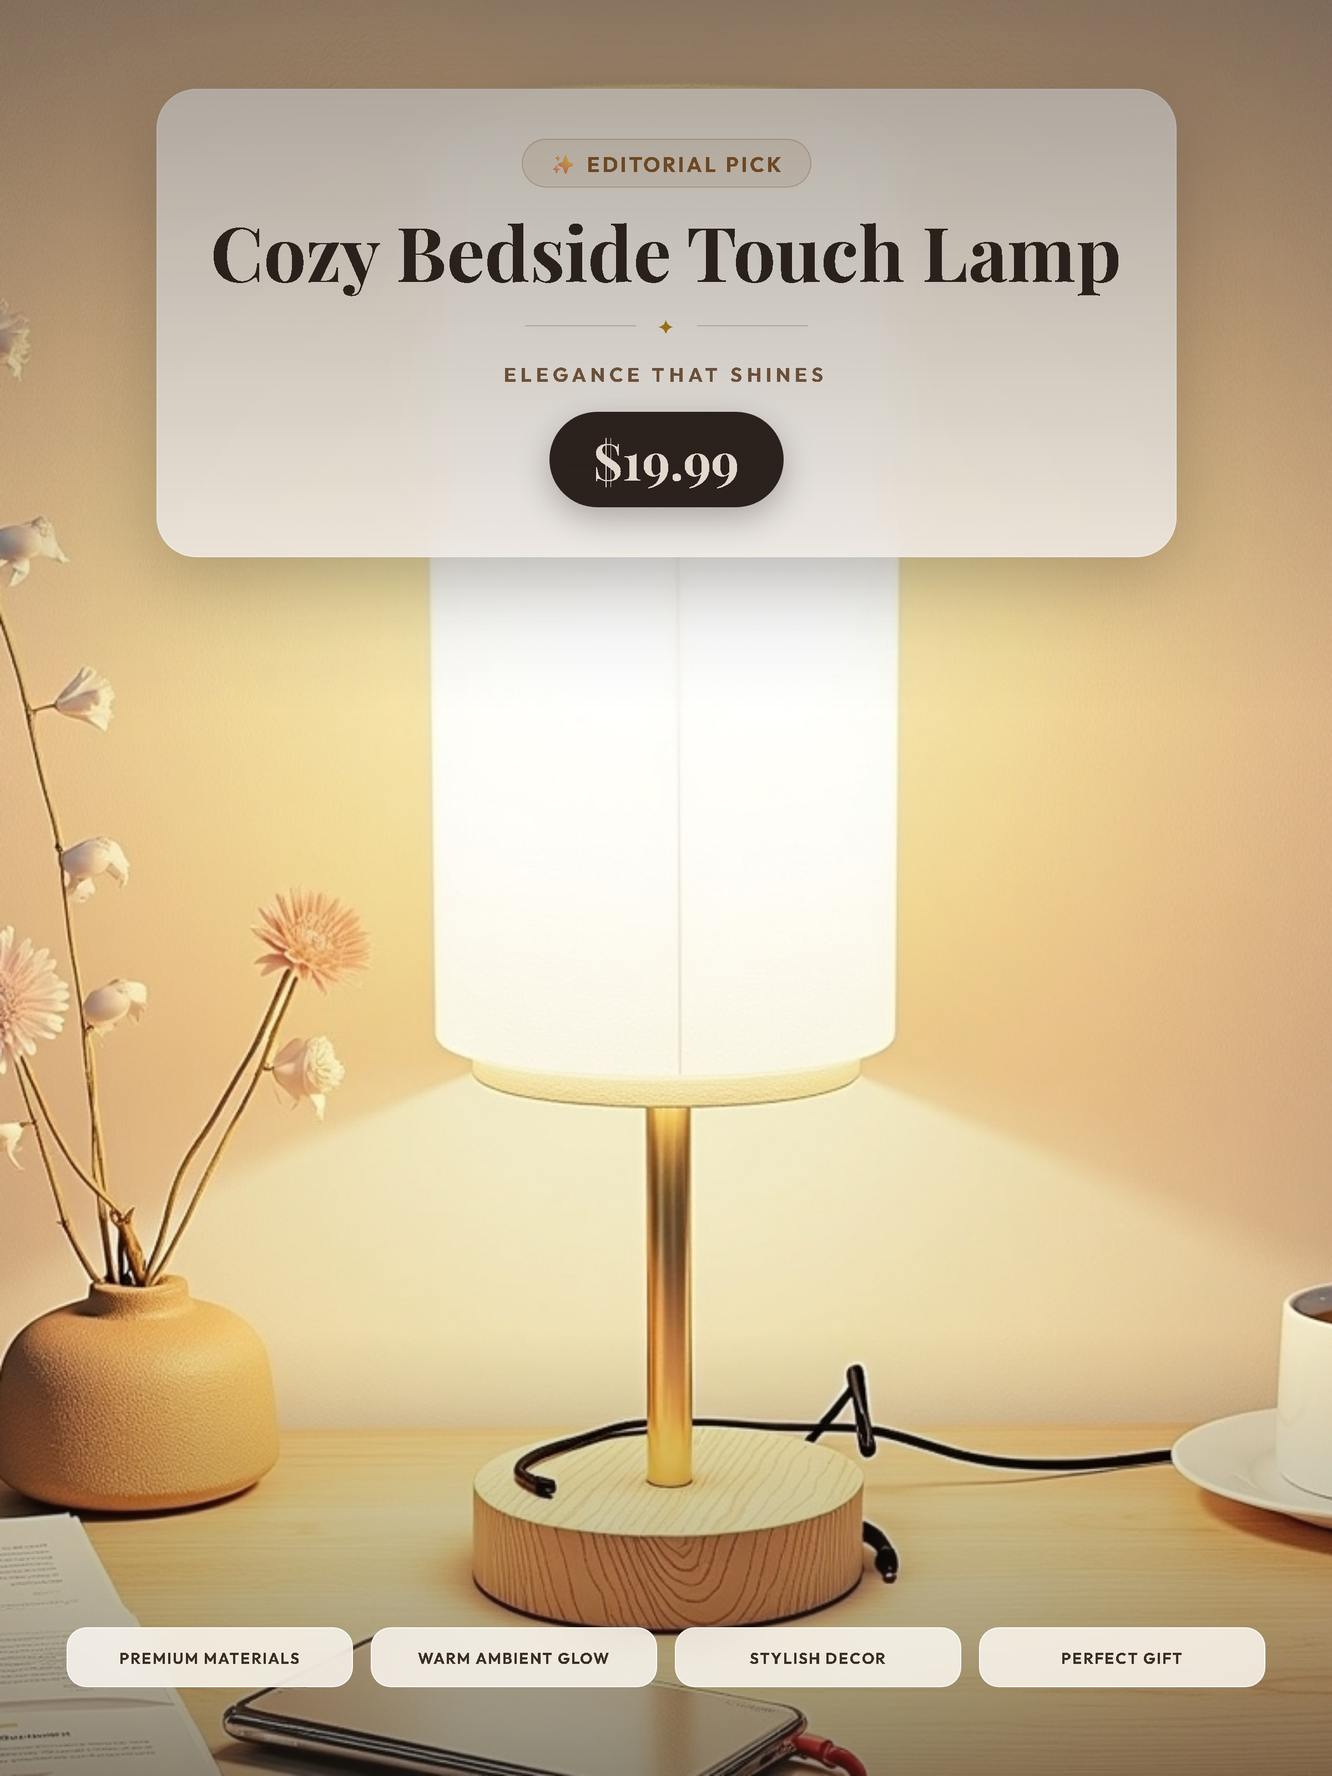
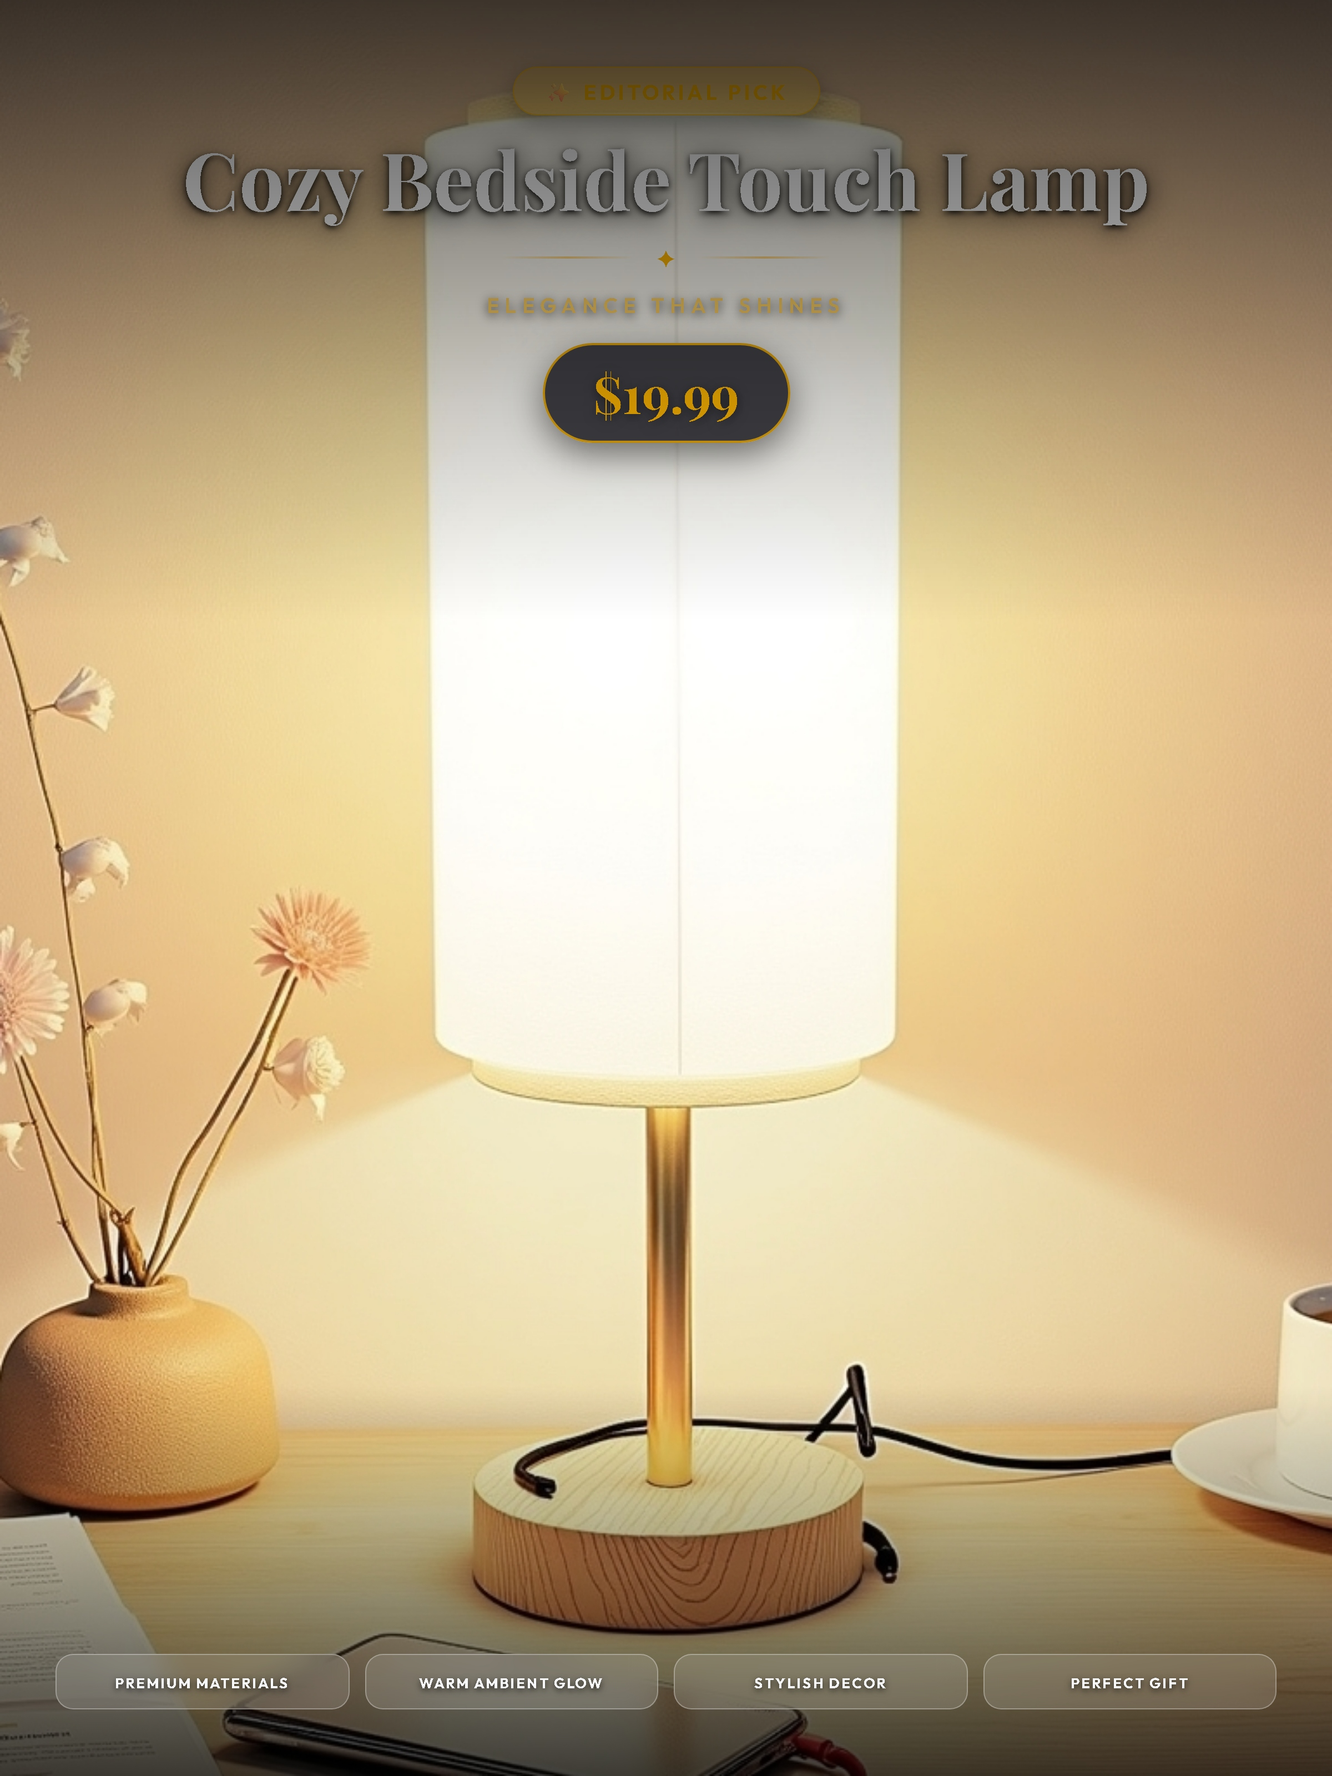
Redesign overlay engine to use floating text so product is 100% visible and unobstructed

diff --git a/modules/html_overlay_engine.py b/modules/html_overlay_engine.py
@@ -12,15 +12,16 @@ def render_html_overlay(
     price_str: str = "$19.99",
     features: list = None,
     output_path: str = None,
-    theme: str = "warm_cream"
+    theme: str = "floating_luxury"
 ) -> str:
     """
-    Renders Canva-quality Pinterest graphic using Playwright & modern HTML/CSS templates.
+    Renders Canva-quality Pinterest graphic using Playwright & modern floating HTML/CSS templates.
+    Ensures the product is 100% VISIBLE without any large boxes or windows obscuring the main subject.
+    
     Supported themes:
-      - 'warm_cream': Soft cream/linen frosted glass card with dark espresso serif (Cozy Bedroom Vibe)
-      - 'botanical_sage': Earthy sage green accents with champagne gold borders (Nature/Botanical Vibe)
-      - 'moody_boho': Sunset amber & terracotta warm ambient glow (Cozy Evening Vibe)
-      - 'luxury_glass': Dark luxury translucent glassmorphism with glowing amber badge (Luxury Studio Vibe)
+      - 'floating_luxury': Floating white & amber gold serif text with subtle scrim (100% Product Clear)
+      - 'floating_cream': Floating dark espresso text with soft top glow (100% Product Clear)
+      - 'botanical_green': Floating sage & champagne gold accents (100% Product Clear)
     """
     if features is None:
         features = ["PREMIUM MATERIALS", "WARM AMBIENT GLOW", "STYLISH DECOR", "PERFECT GIFT"]
@@ -44,216 +45,97 @@ def render_html_overlay(
     # Build features HTML
     feat_items = "".join([f'<div class="feat-card"><span>{f}</span></div>' for f in features[:4]])
 
-    # Define CSS styles per theme
-    if theme == "warm_cream":
-        # Soft Cream / Organic Linen Editorial Vibe (Light frosted glass card)
+    if theme == "floating_cream":
+        # Floating Dark Espresso & Soft Cream Accents (Zero Boxes Blocking Product)
         theme_css = """
         .scrim-top {
-            position: absolute; top: 0; left: 0; width: 100%; height: 40%;
-            background: linear-gradient(180deg, rgba(40,32,24,0.4) 0%, rgba(0,0,0,0) 100%);
+            position: absolute; top: 0; left: 0; width: 100%; height: 32%;
+            background: linear-gradient(180deg, rgba(0,0,0,0.55) 0%, rgba(0,0,0,0.2) 60%, rgba(0,0,0,0) 100%);
             z-index: 1;
         }
         .scrim-bottom {
-            position: absolute; bottom: 0; left: 0; width: 100%; height: 25%;
-            background: linear-gradient(0deg, rgba(40,32,24,0.5) 0%, rgba(0,0,0,0) 100%);
+            position: absolute; bottom: 0; left: 0; width: 100%; height: 20%;
+            background: linear-gradient(0deg, rgba(0,0,0,0.6) 0%, rgba(0,0,0,0) 100%);
             z-index: 1;
         }
-        .top-card {
-            background: rgba(255, 251, 245, 0.88);
-            border: 1px solid rgba(255, 255, 255, 0.9);
-            backdrop-filter: blur(24px);
-            -webkit-backdrop-filter: blur(24px);
-            border-radius: 36px;
-            padding: 44px 48px;
-            box-shadow: 0 20px 60px rgba(44, 36, 30, 0.25);
+        .top-container {
             display: flex; flex-direction: column; align-items: center; text-align: center;
-            max-width: 1040px;
+            width: 100%;
         }
         .badge {
-            background: rgba(180, 130, 80, 0.12);
-            border: 1px solid rgba(180, 130, 80, 0.35);
-            color: #8c5a2b;
-            font-size: 19px; font-weight: 700; padding: 8px 24px; border-radius: 50px;
-            letter-spacing: 2px; text-transform: uppercase; margin-bottom: 18px;
+            background: rgba(255, 251, 245, 0.25); border: 1px solid rgba(255, 255, 255, 0.8);
+            backdrop-filter: blur(12px); color: #ffffff; font-size: 18px; font-weight: 700;
+            padding: 8px 26px; border-radius: 50px; letter-spacing: 2.5px; text-transform: uppercase;
+            margin-bottom: 16px; text-shadow: 0 2px 8px rgba(0,0,0,0.7);
         }
         .headline {
-            font-family: 'Playfair Display', serif; font-size: 68px; font-weight: 700;
-            line-height: 1.15; color: #2c221e; margin-bottom: 16px;
+            font-family: 'Playfair Display', serif; font-size: 70px; font-weight: 700;
+            line-height: 1.12; color: #ffffff; text-shadow: 0 4px 24px rgba(0,0,0,0.85), 0 2px 6px rgba(0,0,0,0.9);
+            margin-bottom: 14px; max-width: 1000px;
         }
-        .divider-line { background: rgba(140, 90, 40, 0.3); width: 100px; height: 1px; }
-        .divider-star { color: #b8860b; font-size: 18px; }
+        .divider-line { background: linear-gradient(90deg, transparent, rgba(255, 255, 255, 0.8), transparent); width: 110px; height: 2px; }
+        .divider-star { color: #ffffff; font-size: 20px; }
         .subtitle {
-            font-size: 18px; font-weight: 700; letter-spacing: 4px; color: #7a5c40;
-            text-transform: uppercase; margin-bottom: 22px;
+            font-size: 18px; font-weight: 600; letter-spacing: 4.5px; color: #f8f9fa;
+            text-transform: uppercase; text-shadow: 0 2px 10px rgba(0,0,0,0.8); margin-bottom: 20px;
         }
         .price-pill {
-            background: #2c221e; color: #fff5ea; border-radius: 50px;
-            padding: 12px 40px; font-family: 'Playfair Display', serif; font-size: 46px; font-weight: 700;
-            box-shadow: 0 10px 30px rgba(44, 34, 30, 0.3);
+            background: rgba(26, 24, 33, 0.82); border: 2px solid rgba(255, 255, 255, 0.9);
+            backdrop-filter: blur(16px); padding: 10px 40px; border-radius: 50px;
+            font-family: 'Playfair Display', serif; font-size: 44px; font-weight: 700; color: #ffffff;
+            box-shadow: 0 8px 30px rgba(0,0,0,0.4); text-shadow: 0 2px 8px rgba(0,0,0,0.5);
         }
         .feat-card {
-            background: rgba(255, 251, 245, 0.82); border: 1px solid rgba(255, 255, 255, 0.8);
-            backdrop-filter: blur(16px); border-radius: 18px; padding: 16px 12px; text-align: center;
+            background: rgba(26, 24, 33, 0.65); border: 1px solid rgba(255, 255, 255, 0.3);
+            backdrop-filter: blur(12px); border-radius: 16px; padding: 14px 10px; text-align: center;
         }
-        .feat-card span { color: #3a2e26; font-size: 14px; font-weight: 700; letter-spacing: 1px; }
+        .feat-card span { color: #ffffff; font-size: 13px; font-weight: 700; letter-spacing: 1.5px; text-shadow: 0 2px 6px rgba(0,0,0,0.7); }
         """
-        html_layout = f"""
-        <div class="top-container">
-            <div class="top-card">
-                <div class="badge">✨ {badge_clean}</div>
-                <div class="headline">{headline_clean}</div>
-                <div class="divider">
-                    <div class="divider-line"></div>
-                    <div class="divider-star">✦</div>
-                    <div class="divider-line"></div>
-                </div>
-                <div class="subtitle">{subtitle_clean}</div>
-                <div class="price-pill">{price_clean}</div>
-            </div>
-        </div>
-        """
-    elif theme == "botanical_sage":
-        # Botanical Sage Green & Gold Vibe
+    else:
+        # 'floating_luxury' (Default Floating Amber Studio — Zero Boxes Blocking Product)
         theme_css = """
         .scrim-top {
-            position: absolute; top: 0; left: 0; width: 100%; height: 45%;
-            background: linear-gradient(180deg, rgba(20,35,25,0.7) 0%, rgba(0,0,0,0) 100%); z-index: 1;
+            position: absolute; top: 0; left: 0; width: 100%; height: 35%;
+            background: linear-gradient(180deg, rgba(0,0,0,0.7) 0%, rgba(0,0,0,0.2) 65%, rgba(0,0,0,0) 100%);
+            z-index: 1;
         }
         .scrim-bottom {
-            position: absolute; bottom: 0; left: 0; width: 100%; height: 25%;
-            background: linear-gradient(0deg, rgba(20,35,25,0.75) 0%, rgba(0,0,0,0) 100%); z-index: 1;
+            position: absolute; bottom: 0; left: 0; width: 100%; height: 22%;
+            background: linear-gradient(0deg, rgba(0,0,0,0.75) 0%, rgba(0,0,0,0) 100%);
+            z-index: 1;
         }
-        .top-container { display: flex; flex-direction: column; align-items: center; text-align: center; }
+        .top-container {
+            display: flex; flex-direction: column; align-items: center; text-align: center;
+            width: 100%;
+        }
         .badge {
-            background: rgba(168, 195, 160, 0.22); border: 1px solid rgba(180, 215, 170, 0.7);
-            backdrop-filter: blur(16px); color: #d4ebd0; font-size: 20px; font-weight: 700;
-            padding: 10px 28px; border-radius: 50px; letter-spacing: 2px; margin-bottom: 22px;
-        }
-        .headline {
-            font-family: 'Playfair Display', serif; font-size: 74px; font-weight: 700;
-            color: #f4fbf2; text-shadow: 0 4px 20px rgba(0,0,0,0.7); margin-bottom: 18px;
-        }
-        .divider-line { background: linear-gradient(90deg, transparent, #a8c3a0, transparent); width: 120px; height: 2px; }
-        .divider-star { color: #a8c3a0; font-size: 22px; }
-        .subtitle { font-size: 20px; font-weight: 600; letter-spacing: 5px; color: #c3e2bb; margin-bottom: 24px; }
-        .price-pill {
-            background: rgba(30, 50, 38, 0.82); border: 2px solid #a8c3a0; backdrop-filter: blur(20px);
-            padding: 12px 42px; border-radius: 50px; font-family: 'Playfair Display', serif;
-            font-size: 46px; font-weight: 700; color: #e8f7e4; box-shadow: 0 10px 30px rgba(0,0,0,0.4);
-        }
-        .feat-card {
-            background: rgba(30, 50, 38, 0.75); border: 1px solid rgba(168, 195, 160, 0.4);
-            backdrop-filter: blur(16px); border-radius: 18px; padding: 16px 12px; text-align: center;
-        }
-        .feat-card span { color: #e8f7e4; font-size: 14px; font-weight: 700; letter-spacing: 1px; }
-        """
-        html_layout = f"""
-        <div class="top-container">
-            <div class="badge">🌿 {badge_clean}</div>
-            <div class="headline">{headline_clean}</div>
-            <div class="divider">
-                <div class="divider-line"></div>
-                <div class="divider-star">✦</div>
-                <div class="divider-line"></div>
-            </div>
-            <div class="subtitle">{subtitle_clean}</div>
-            <div class="price-pill">{price_clean}</div>
-        </div>
-        """
-    elif theme == "moody_boho":
-        # Terracotta & Sunset Amber Warm Ambient Vibe
-        theme_css = """
-        .scrim-top {
-            position: absolute; top: 0; left: 0; width: 100%; height: 45%;
-            background: linear-gradient(180deg, rgba(45,20,10,0.7) 0%, rgba(0,0,0,0) 100%); z-index: 1;
-        }
-        .scrim-bottom {
-            position: absolute; bottom: 0; left: 0; width: 100%; height: 25%;
-            background: linear-gradient(0deg, rgba(45,20,10,0.8) 0%, rgba(0,0,0,0) 100%); z-index: 1;
-        }
-        .top-container { display: flex; flex-direction: column; align-items: center; text-align: center; }
-        .badge {
-            background: rgba(230, 120, 60, 0.2); border: 1px solid rgba(255, 160, 100, 0.6);
-            backdrop-filter: blur(16px); color: #ffb088; font-size: 20px; font-weight: 700;
-            padding: 10px 28px; border-radius: 50px; letter-spacing: 2px; margin-bottom: 22px;
-        }
-        .headline {
-            font-family: 'Playfair Display', serif; font-size: 74px; font-weight: 700;
-            color: #fff4ee; text-shadow: 0 4px 20px rgba(0,0,0,0.8); margin-bottom: 18px;
-        }
-        .divider-line { background: linear-gradient(90deg, transparent, #ffaa80, transparent); width: 120px; height: 2px; }
-        .divider-star { color: #ffaa80; font-size: 22px; }
-        .subtitle { font-size: 20px; font-weight: 600; letter-spacing: 5px; color: #ffd0b8; margin-bottom: 24px; }
-        .price-pill {
-            background: rgba(55, 25, 15, 0.85); border: 2px solid #ffaa80; backdrop-filter: blur(20px);
-            padding: 12px 42px; border-radius: 50px; font-family: 'Playfair Display', serif;
-            font-size: 46px; font-weight: 700; color: #ffaa80; box-shadow: 0 10px 30px rgba(0,0,0,0.5);
-        }
-        .feat-card {
-            background: rgba(55, 25, 15, 0.75); border: 1px solid rgba(255, 170, 128, 0.4);
-            backdrop-filter: blur(16px); border-radius: 18px; padding: 16px 12px; text-align: center;
-        }
-        .feat-card span { color: #fff4ee; font-size: 14px; font-weight: 700; letter-spacing: 1px; }
-        """
-        html_layout = f"""
-        <div class="top-container">
-            <div class="badge">🌅 {badge_clean}</div>
-            <div class="headline">{headline_clean}</div>
-            <div class="divider">
-                <div class="divider-line"></div>
-                <div class="divider-star">✦</div>
-                <div class="divider-line"></div>
-            </div>
-            <div class="subtitle">{subtitle_clean}</div>
-            <div class="price-pill">{price_clean}</div>
-        </div>
-        """
-    else:  # 'luxury_glass' (Default Amber Studio Glass)
-        theme_css = """
-        .scrim-top {
-            position: absolute; top: 0; left: 0; width: 100%; height: 45%;
-            background: linear-gradient(180deg, rgba(0,0,0,0.75) 0%, rgba(0,0,0,0) 100%); z-index: 1;
-        }
-        .scrim-bottom {
-            position: absolute; bottom: 0; left: 0; width: 100%; height: 30%;
-            background: linear-gradient(0deg, rgba(0,0,0,0.85) 0%, rgba(0,0,0,0) 100%); z-index: 1;
-        }
-        .top-container { display: flex; flex-direction: column; align-items: center; text-align: center; }
-        .badge {
-            background: rgba(255, 183, 3, 0.18); border: 1px solid rgba(255, 183, 3, 0.6);
-            backdrop-filter: blur(16px); color: #ffb703; font-size: 20px; font-weight: 700;
-            padding: 10px 28px; border-radius: 50px; letter-spacing: 2.5px; margin-bottom: 24px;
+            background: rgba(255, 183, 3, 0.22); border: 1px solid rgba(255, 183, 3, 0.7);
+            backdrop-filter: blur(12px); color: #ffb703; font-size: 19px; font-weight: 700;
+            padding: 8px 28px; border-radius: 50px; letter-spacing: 2.5px; text-transform: uppercase;
+            margin-bottom: 16px; box-shadow: 0 6px 20px rgba(0, 0, 0, 0.3);
         }
         .headline {
             font-family: 'Playfair Display', serif; font-size: 72px; font-weight: 700;
-            color: #ffffff; text-shadow: 0 4px 20px rgba(0,0,0,0.8); margin-bottom: 20px;
+            line-height: 1.12; color: #ffffff; text-shadow: 0 4px 24px rgba(0,0,0,0.85), 0 2px 6px rgba(0,0,0,0.9);
+            margin-bottom: 16px; max-width: 1000px;
         }
-        .divider-line { background: linear-gradient(90deg, transparent, rgba(255, 210, 120, 0.8), transparent); width: 120px; height: 2px; }
+        .divider-line { background: linear-gradient(90deg, transparent, rgba(255, 210, 120, 0.9), transparent); width: 120px; height: 2px; }
         .divider-star { color: #ffb703; font-size: 22px; }
-        .subtitle { font-size: 22px; font-weight: 600; letter-spacing: 5px; color: #ffd166; margin-bottom: 28px; }
+        .subtitle {
+            font-size: 19px; font-weight: 600; letter-spacing: 5px; color: #ffd166;
+            text-transform: uppercase; text-shadow: 0 2px 10px rgba(0,0,0,0.8); margin-bottom: 22px;
+        }
         .price-pill {
-            background: rgba(26, 24, 33, 0.75); border: 2px solid rgba(255, 183, 3, 0.8);
-            backdrop-filter: blur(20px); padding: 14px 44px; border-radius: 50px;
-            font-family: 'Playfair Display', serif; font-size: 48px; font-weight: 700; color: #ffb703;
+            background: rgba(26, 24, 33, 0.82); border: 2px solid rgba(255, 183, 3, 0.85);
+            backdrop-filter: blur(16px); padding: 12px 44px; border-radius: 50px;
+            font-family: 'Playfair Display', serif; font-size: 46px; font-weight: 700; color: #ffb703;
+            box-shadow: 0 10px 32px rgba(0,0,0,0.5); text-shadow: 0 2px 10px rgba(0,0,0,0.5);
         }
         .feat-card {
-            background: rgba(255, 255, 255, 0.12); border: 1px solid rgba(255, 255, 255, 0.25);
-            backdrop-filter: blur(16px); border-radius: 16px; padding: 16px 12px; text-align: center;
+            background: rgba(255, 255, 255, 0.14); border: 1px solid rgba(255, 255, 255, 0.3);
+            backdrop-filter: blur(12px); border-radius: 16px; padding: 14px 10px; text-align: center;
         }
-        .feat-card span { color: #f8f9fa; font-size: 14px; font-weight: 700; letter-spacing: 1.5px; }
-        """
-        html_layout = f"""
-        <div class="top-container">
-            <div class="badge">✨ {badge_clean}</div>
-            <div class="headline">{headline_clean}</div>
-            <div class="divider">
-                <div class="divider-line"></div>
-                <div class="divider-star">✦</div>
-                <div class="divider-line"></div>
-            </div>
-            <div class="subtitle">{subtitle_clean}</div>
-            <div class="price-pill">{price_clean}</div>
-        </div>
+        .feat-card span { color: #f8f9fa; font-size: 13px; font-weight: 700; letter-spacing: 1.5px; text-shadow: 0 2px 6px rgba(0,0,0,0.7); }
         """
 
     html_content = f"""<!DOCTYPE html>
@@ -276,7 +158,7 @@ def render_html_overlay(
             flex-direction: column;
             justify-content: space-between;
             align-items: center;
-            padding: 80px 60px;
+            padding: 60px 50px;
             color: #fff;
         }}
 
@@ -288,7 +170,7 @@ def render_html_overlay(
             justify-content: center;
             gap: 20px;
             width: 100%;
-            margin-bottom: 20px;
+            margin-bottom: 16px;
         }}
 
         .bottom-container {{
@@ -300,7 +182,7 @@ def render_html_overlay(
         .features-grid {{
             display: grid;
             grid-template-columns: repeat(4, 1fr);
-            gap: 16px;
+            gap: 14px;
             width: 100%;
         }}
     </style>
@@ -309,7 +191,17 @@ def render_html_overlay(
     <div class="scrim-top"></div>
     <div class="scrim-bottom"></div>
 
-    {html_layout}
+    <div class="top-container">
+        <div class="badge">✨ {badge_clean}</div>
+        <div class="headline">{headline_clean}</div>
+        <div class="divider">
+            <div class="divider-line"></div>
+            <div class="divider-star">✦</div>
+            <div class="divider-line"></div>
+        </div>
+        <div class="subtitle">{subtitle_clean}</div>
+        <div class="price-pill">{price_clean}</div>
+    </div>
 
     <div class="bottom-container">
         <div class="features-grid">
@@ -324,7 +216,7 @@ def render_html_overlay(
     with open(temp_html, "w", encoding="utf-8") as f:
         f.write(html_content)
 
-    print(f"[HTML Overlay Engine] Rendering theme='{theme}' Playwright 1200x1600 graphic to {output_path}...")
+    print(f"[HTML Overlay Engine] Rendering 100% Product Clear Playwright 1200x1600 graphic to {output_path}...")
 
     for attempt in range(3):
         try:
@@ -345,5 +237,5 @@ def render_html_overlay(
     if temp_html.exists():
         temp_html.unlink()
 
-    print(f"[HTML Overlay Engine] Saved high-res '{theme}' pin graphic: {output_path}")
+    print(f"[HTML Overlay Engine] Saved high-res floating pin graphic (100% Product Clear): {output_path}")
     return str(output_path)

diff --git a/render_floating_graphic.py b/render_floating_graphic.py
@@ -1,0 +1,12 @@
+from modules.html_overlay_engine import render_html_overlay
+
+render_html_overlay(
+    image_path='G:/CLI/pinterest-auto-affiliate/output/images/focus_product_B0BZXNSW5K.jpg',
+    headline='Cozy Bedside Touch Lamp',
+    subtitle='ELEGANCE THAT SHINES',
+    badge_text='EDITORIAL PICK',
+    price_str='$19.99',
+    theme='floating_luxury',
+    output_path='G:/CLI/pinterest-auto-affiliate/focus_product_B0BZXNSW5K_hook.jpg'
+)
+print("Done rendering 100% clear product floating graphic!")
